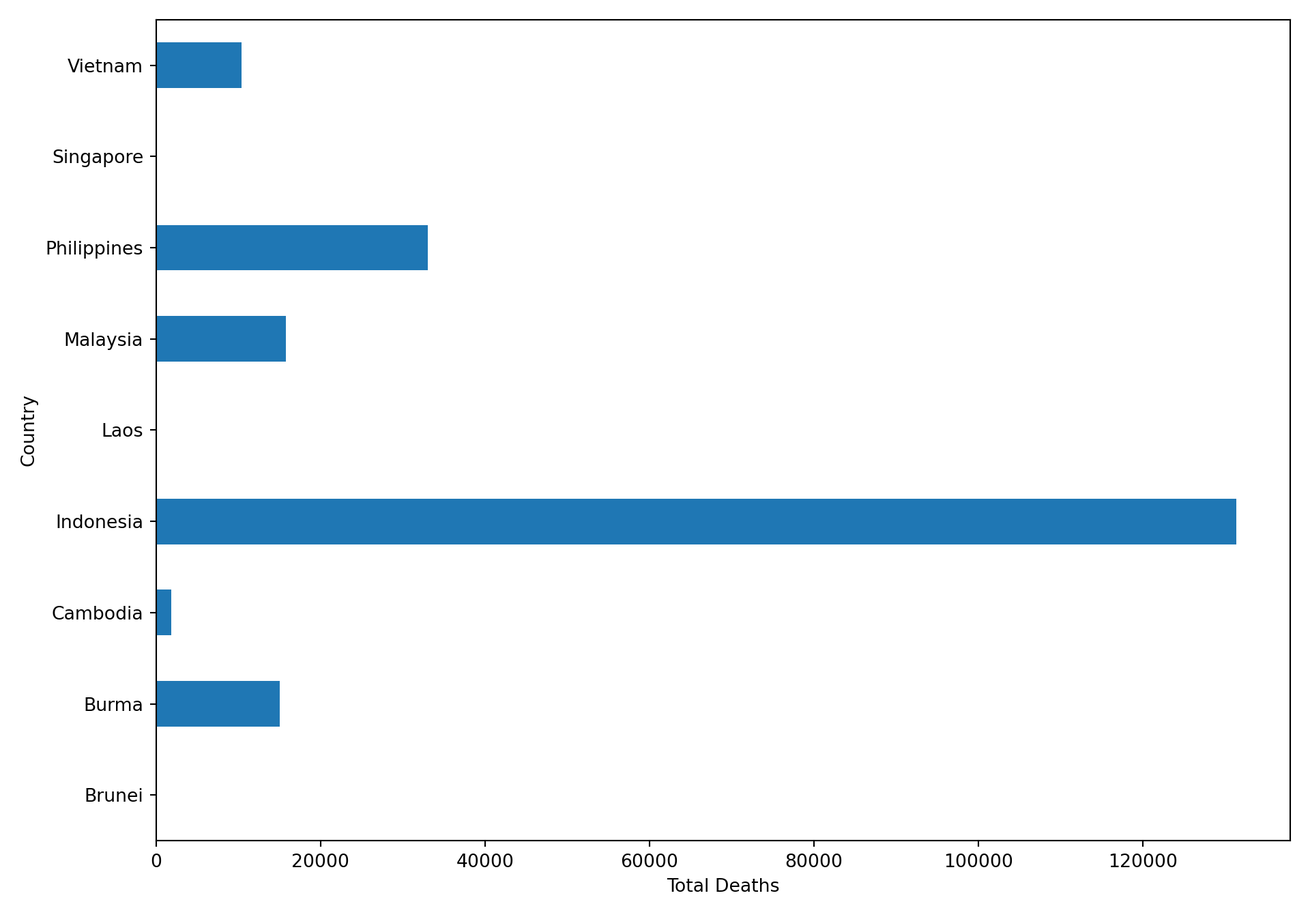
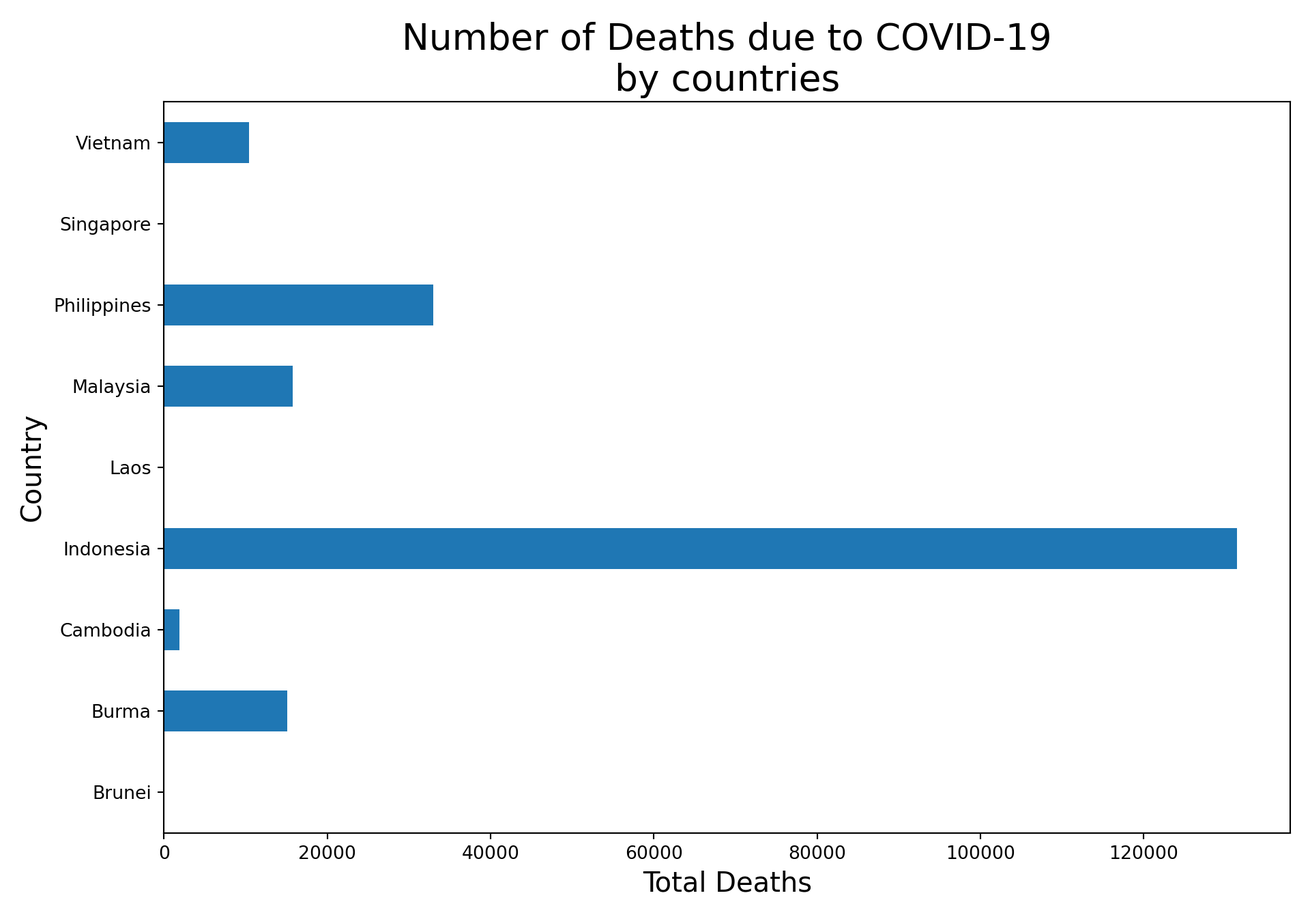
Updated COVID exploration of Daily Cases
- Used .diff() and some other logical operators to plot daily cases of COVID for ASEAN countries.

- Added and Changed Labels and Label Sizes using ax = plot ; ax.set_nlabel...

- Still need help to suppress some outputs generated by matplotlib, especially the text warnings while calling labels.

diff --git a/docs/using-pandas-to-explore-covid-19-data.html b/docs/using-pandas-to-explore-covid-19-data.html
@@ -251,28 +251,40 @@ Hint: Maybe make the barchart descending!</p></li>
 <span id="cb85-3"><a href="using-pandas-to-explore-covid-19-data.html#cb85-3" aria-hidden="true" tabindex="-1"></a>asean_df_latest.set_index(<span class="st">'Country'</span>, inplace <span class="op">=</span> <span class="va">True</span>)</span>
 <span id="cb85-4"><a href="using-pandas-to-explore-covid-19-data.html#cb85-4" aria-hidden="true" tabindex="-1"></a></span>
 <span id="cb85-5"><a href="using-pandas-to-explore-covid-19-data.html#cb85-5" aria-hidden="true" tabindex="-1"></a></span>
-<span id="cb85-6"><a href="using-pandas-to-explore-covid-19-data.html#cb85-6" aria-hidden="true" tabindex="-1"></a>asean_df_latest[<span class="st">'Deaths'</span>].plot(kind <span class="op">=</span> <span class="st">'barh'</span>).set_xlabel(<span class="st">'Total Deaths'</span>)</span></code></pre></div>
+<span id="cb85-6"><a href="using-pandas-to-explore-covid-19-data.html#cb85-6" aria-hidden="true" tabindex="-1"></a>ax <span class="op">=</span> asean_df_latest[<span class="st">'Deaths'</span>].plot(kind <span class="op">=</span> <span class="st">'barh'</span>)</span>
+<span id="cb85-7"><a href="using-pandas-to-explore-covid-19-data.html#cb85-7" aria-hidden="true" tabindex="-1"></a></span>
+<span id="cb85-8"><a href="using-pandas-to-explore-covid-19-data.html#cb85-8" aria-hidden="true" tabindex="-1"></a>ax.set_xlabel(<span class="st">'Total Deaths'</span>, fontsize <span class="op">=</span> <span class="dv">15</span>)</span></code></pre></div>
 <pre><code>#&gt; Text(0.5, 0, 'Total Deaths')</code></pre>
-<div class="sourceCode" id="cb87"><pre class="sourceCode python"><code class="sourceCode python"><span id="cb87-1"><a href="using-pandas-to-explore-covid-19-data.html#cb87-1" aria-hidden="true" tabindex="-1"></a>plt.tight_layout()</span>
-<span id="cb87-2"><a href="using-pandas-to-explore-covid-19-data.html#cb87-2" aria-hidden="true" tabindex="-1"></a>plt.show()</span></code></pre></div>
+<div class="sourceCode" id="cb87"><pre class="sourceCode python"><code class="sourceCode python"><span id="cb87-1"><a href="using-pandas-to-explore-covid-19-data.html#cb87-1" aria-hidden="true" tabindex="-1"></a>ax.set_ylabel(<span class="st">'Country'</span>, fontsize <span class="op">=</span> <span class="dv">15</span>)</span></code></pre></div>
+<pre><code>#&gt; Text(0, 0.5, 'Country')</code></pre>
+<div class="sourceCode" id="cb89"><pre class="sourceCode python"><code class="sourceCode python"><span id="cb89-1"><a href="using-pandas-to-explore-covid-19-data.html#cb89-1" aria-hidden="true" tabindex="-1"></a>ax.set_title(<span class="st">'Number of Deaths due to COVID-19</span><span class="ch">\n</span><span class="st">by countries'</span>, fontsize <span class="op">=</span> <span class="dv">20</span>)</span></code></pre></div>
+<pre><code>#&gt; Text(0.5, 1.0, 'Number of Deaths due to COVID-19\nby countries')</code></pre>
+<div class="sourceCode" id="cb91"><pre class="sourceCode python"><code class="sourceCode python"><span id="cb91-1"><a href="using-pandas-to-explore-covid-19-data.html#cb91-1" aria-hidden="true" tabindex="-1"></a>plt.tight_layout()</span>
+<span id="cb91-2"><a href="using-pandas-to-explore-covid-19-data.html#cb91-2" aria-hidden="true" tabindex="-1"></a>plt.show()</span></code></pre></div>
 <div class="inline-figure"><img src="workshops.tfi.visualisation_files/figure-html/unnamed-chunk-7-1.png" width="85%" style="display: block; margin: auto;"></div>
 </div>
 <div id="solution-better-way" class="section level4 unnumbered">
 <h4>Solution Better Way<a class="anchor" aria-label="anchor" href="#solution-better-way"><i class="fas fa-link"></i></a>
 </h4>
 <p>As you can tell, it is not really clean. A better way to present the other plot would be to sort the countries in descending order of deaths!</p>
-<div class="sourceCode" id="cb88"><pre class="sourceCode python"><code class="sourceCode python"><span id="cb88-1"><a href="using-pandas-to-explore-covid-19-data.html#cb88-1" aria-hidden="true" tabindex="-1"></a>plt.cla()</span>
-<span id="cb88-2"><a href="using-pandas-to-explore-covid-19-data.html#cb88-2" aria-hidden="true" tabindex="-1"></a>plt.subplots(figsize <span class="op">=</span> (<span class="dv">10</span>,<span class="dv">7</span>))</span></code></pre></div>
+<div class="sourceCode" id="cb92"><pre class="sourceCode python"><code class="sourceCode python"><span id="cb92-1"><a href="using-pandas-to-explore-covid-19-data.html#cb92-1" aria-hidden="true" tabindex="-1"></a>plt.cla()</span>
+<span id="cb92-2"><a href="using-pandas-to-explore-covid-19-data.html#cb92-2" aria-hidden="true" tabindex="-1"></a>plt.subplots(figsize <span class="op">=</span> (<span class="dv">10</span>,<span class="dv">7</span>))</span></code></pre></div>
 <pre><code>#&gt; (&lt;Figure size 1000x700 with 1 Axes&gt;, &lt;AxesSubplot:&gt;)</code></pre>
-<div class="sourceCode" id="cb90"><pre class="sourceCode python"><code class="sourceCode python"><span id="cb90-1"><a href="using-pandas-to-explore-covid-19-data.html#cb90-1" aria-hidden="true" tabindex="-1"></a>latest_date <span class="op">=</span> <span class="bu">max</span>(asean_df[<span class="st">'Date'</span>])</span>
-<span id="cb90-2"><a href="using-pandas-to-explore-covid-19-data.html#cb90-2" aria-hidden="true" tabindex="-1"></a>asean_df_latest <span class="op">=</span> asean_df[asean_df[<span class="st">'Date'</span>] <span class="op">==</span> latest_date]</span>
-<span id="cb90-3"><a href="using-pandas-to-explore-covid-19-data.html#cb90-3" aria-hidden="true" tabindex="-1"></a>asean_df_latest.set_index(<span class="st">'Country'</span>, inplace <span class="op">=</span> <span class="va">True</span>)</span>
-<span id="cb90-4"><a href="using-pandas-to-explore-covid-19-data.html#cb90-4" aria-hidden="true" tabindex="-1"></a>asean_df_latest <span class="op">=</span> asean_df_latest.sort_values(by <span class="op">=</span> <span class="st">'Deaths'</span>, ascending<span class="op">=</span><span class="va">True</span>)</span>
-<span id="cb90-5"><a href="using-pandas-to-explore-covid-19-data.html#cb90-5" aria-hidden="true" tabindex="-1"></a></span>
-<span id="cb90-6"><a href="using-pandas-to-explore-covid-19-data.html#cb90-6" aria-hidden="true" tabindex="-1"></a>asean_df_latest[<span class="st">'Deaths'</span>].plot(kind <span class="op">=</span> <span class="st">'barh'</span>).set_xlabel(<span class="st">'Total Deaths'</span>)</span></code></pre></div>
+<div class="sourceCode" id="cb94"><pre class="sourceCode python"><code class="sourceCode python"><span id="cb94-1"><a href="using-pandas-to-explore-covid-19-data.html#cb94-1" aria-hidden="true" tabindex="-1"></a>latest_date <span class="op">=</span> <span class="bu">max</span>(asean_df[<span class="st">'Date'</span>])</span>
+<span id="cb94-2"><a href="using-pandas-to-explore-covid-19-data.html#cb94-2" aria-hidden="true" tabindex="-1"></a>asean_df_latest <span class="op">=</span> asean_df[asean_df[<span class="st">'Date'</span>] <span class="op">==</span> latest_date]</span>
+<span id="cb94-3"><a href="using-pandas-to-explore-covid-19-data.html#cb94-3" aria-hidden="true" tabindex="-1"></a>asean_df_latest.set_index(<span class="st">'Country'</span>, inplace <span class="op">=</span> <span class="va">True</span>)</span>
+<span id="cb94-4"><a href="using-pandas-to-explore-covid-19-data.html#cb94-4" aria-hidden="true" tabindex="-1"></a>asean_df_latest <span class="op">=</span> asean_df_latest.sort_values(by <span class="op">=</span> <span class="st">'Deaths'</span>, ascending<span class="op">=</span><span class="va">True</span>)</span>
+<span id="cb94-5"><a href="using-pandas-to-explore-covid-19-data.html#cb94-5" aria-hidden="true" tabindex="-1"></a></span>
+<span id="cb94-6"><a href="using-pandas-to-explore-covid-19-data.html#cb94-6" aria-hidden="true" tabindex="-1"></a>ax <span class="op">=</span> asean_df_latest[<span class="st">'Deaths'</span>].plot(kind <span class="op">=</span> <span class="st">'barh'</span>)</span>
+<span id="cb94-7"><a href="using-pandas-to-explore-covid-19-data.html#cb94-7" aria-hidden="true" tabindex="-1"></a></span>
+<span id="cb94-8"><a href="using-pandas-to-explore-covid-19-data.html#cb94-8" aria-hidden="true" tabindex="-1"></a>ax.set_xlabel(<span class="st">'Total Deaths'</span>, fontsize <span class="op">=</span> <span class="dv">15</span>)</span></code></pre></div>
 <pre><code>#&gt; Text(0.5, 0, 'Total Deaths')</code></pre>
-<div class="sourceCode" id="cb92"><pre class="sourceCode python"><code class="sourceCode python"><span id="cb92-1"><a href="using-pandas-to-explore-covid-19-data.html#cb92-1" aria-hidden="true" tabindex="-1"></a>plt.tight_layout()</span>
-<span id="cb92-2"><a href="using-pandas-to-explore-covid-19-data.html#cb92-2" aria-hidden="true" tabindex="-1"></a>plt.show()</span></code></pre></div>
+<div class="sourceCode" id="cb96"><pre class="sourceCode python"><code class="sourceCode python"><span id="cb96-1"><a href="using-pandas-to-explore-covid-19-data.html#cb96-1" aria-hidden="true" tabindex="-1"></a>ax.set_ylabel(<span class="st">'Country'</span>, fontsize <span class="op">=</span> <span class="dv">15</span>)</span></code></pre></div>
+<pre><code>#&gt; Text(0, 0.5, 'Country')</code></pre>
+<div class="sourceCode" id="cb98"><pre class="sourceCode python"><code class="sourceCode python"><span id="cb98-1"><a href="using-pandas-to-explore-covid-19-data.html#cb98-1" aria-hidden="true" tabindex="-1"></a>ax.set_title(<span class="st">'Number of Deaths due to COVID-19</span><span class="ch">\n</span><span class="st">sorted by descending order by countries'</span>, fontsize <span class="op">=</span> <span class="dv">20</span>)</span></code></pre></div>
+<pre><code>#&gt; Text(0.5, 1.0, 'Number of Deaths due to COVID-19\nsorted by descending order by countries')</code></pre>
+<div class="sourceCode" id="cb100"><pre class="sourceCode python"><code class="sourceCode python"><span id="cb100-1"><a href="using-pandas-to-explore-covid-19-data.html#cb100-1" aria-hidden="true" tabindex="-1"></a>plt.tight_layout()</span>
+<span id="cb100-2"><a href="using-pandas-to-explore-covid-19-data.html#cb100-2" aria-hidden="true" tabindex="-1"></a>plt.show()</span></code></pre></div>
 <div class="inline-figure"><img src="workshops.tfi.visualisation_files/figure-html/unnamed-chunk-7-3.png" width="85%" style="display: block; margin: auto;"></div>
 </div>
 </div>
@@ -300,14 +312,14 @@ Hint: Maybe make the barchart descending!</p></li>
 <div id="solution-4" class="section level4 unnumbered">
 <h4>Solution<a class="anchor" aria-label="anchor" href="#solution-4"><i class="fas fa-link"></i></a>
 </h4>
-<div class="sourceCode" id="cb93"><pre class="sourceCode python"><code class="sourceCode python"><span id="cb93-1"><a href="using-pandas-to-explore-covid-19-data.html#cb93-1" aria-hidden="true" tabindex="-1"></a><span class="co"># asean_df is the df of choice</span></span>
-<span id="cb93-2"><a href="using-pandas-to-explore-covid-19-data.html#cb93-2" aria-hidden="true" tabindex="-1"></a></span>
-<span id="cb93-3"><a href="using-pandas-to-explore-covid-19-data.html#cb93-3" aria-hidden="true" tabindex="-1"></a>plt.cla()</span>
-<span id="cb93-4"><a href="using-pandas-to-explore-covid-19-data.html#cb93-4" aria-hidden="true" tabindex="-1"></a>fig, ax <span class="op">=</span> plt.subplots(figsize <span class="op">=</span> (<span class="dv">10</span>,<span class="dv">5</span>))</span>
-<span id="cb93-5"><a href="using-pandas-to-explore-covid-19-data.html#cb93-5" aria-hidden="true" tabindex="-1"></a></span>
-<span id="cb93-6"><a href="using-pandas-to-explore-covid-19-data.html#cb93-6" aria-hidden="true" tabindex="-1"></a><span class="co">#Iterate through our countries so we can plot automatically plot them!</span></span>
-<span id="cb93-7"><a href="using-pandas-to-explore-covid-19-data.html#cb93-7" aria-hidden="true" tabindex="-1"></a><span class="cf">for</span> country <span class="kw">in</span> ASEAN_countries_list:</span>
-<span id="cb93-8"><a href="using-pandas-to-explore-covid-19-data.html#cb93-8" aria-hidden="true" tabindex="-1"></a>    asean_df[asean_df[<span class="st">'Country'</span>] <span class="op">==</span> country].plot(<span class="st">'Date'</span>,<span class="st">'Confirmed'</span>,ax<span class="op">=</span>ax, label <span class="op">=</span> country)</span></code></pre></div>
+<div class="sourceCode" id="cb101"><pre class="sourceCode python"><code class="sourceCode python"><span id="cb101-1"><a href="using-pandas-to-explore-covid-19-data.html#cb101-1" aria-hidden="true" tabindex="-1"></a><span class="co"># asean_df is the df of choice</span></span>
+<span id="cb101-2"><a href="using-pandas-to-explore-covid-19-data.html#cb101-2" aria-hidden="true" tabindex="-1"></a></span>
+<span id="cb101-3"><a href="using-pandas-to-explore-covid-19-data.html#cb101-3" aria-hidden="true" tabindex="-1"></a>plt.cla()</span>
+<span id="cb101-4"><a href="using-pandas-to-explore-covid-19-data.html#cb101-4" aria-hidden="true" tabindex="-1"></a>fig, ax <span class="op">=</span> plt.subplots(figsize <span class="op">=</span> (<span class="dv">10</span>,<span class="dv">5</span>))</span>
+<span id="cb101-5"><a href="using-pandas-to-explore-covid-19-data.html#cb101-5" aria-hidden="true" tabindex="-1"></a></span>
+<span id="cb101-6"><a href="using-pandas-to-explore-covid-19-data.html#cb101-6" aria-hidden="true" tabindex="-1"></a><span class="co">#Iterate through our countries so we can plot automatically plot them!</span></span>
+<span id="cb101-7"><a href="using-pandas-to-explore-covid-19-data.html#cb101-7" aria-hidden="true" tabindex="-1"></a><span class="cf">for</span> country <span class="kw">in</span> ASEAN_countries_list:</span>
+<span id="cb101-8"><a href="using-pandas-to-explore-covid-19-data.html#cb101-8" aria-hidden="true" tabindex="-1"></a>    asean_df[asean_df[<span class="st">'Country'</span>] <span class="op">==</span> country].plot(<span class="st">'Date'</span>,<span class="st">'Confirmed'</span>,ax<span class="op">=</span>ax, label <span class="op">=</span> country)</span></code></pre></div>
 <pre><code>#&gt; &lt;AxesSubplot:xlabel='Date'&gt;
 #&gt; &lt;AxesSubplot:xlabel='Date'&gt;
 #&gt; &lt;AxesSubplot:xlabel='Date'&gt;
@@ -317,13 +329,16 @@ Hint: Maybe make the barchart descending!</p></li>
 #&gt; &lt;AxesSubplot:xlabel='Date'&gt;
 #&gt; &lt;AxesSubplot:xlabel='Date'&gt;
 #&gt; &lt;AxesSubplot:xlabel='Date'&gt;</code></pre>
-<div class="sourceCode" id="cb95"><pre class="sourceCode python"><code class="sourceCode python"><span id="cb95-1"><a href="using-pandas-to-explore-covid-19-data.html#cb95-1" aria-hidden="true" tabindex="-1"></a>plt.legend()</span></code></pre></div>
-<pre><code>#&gt; &lt;matplotlib.legend.Legend object at 0x000000006233D580&gt;</code></pre>
-<div class="sourceCode" id="cb97"><pre class="sourceCode python"><code class="sourceCode python"><span id="cb97-1"><a href="using-pandas-to-explore-covid-19-data.html#cb97-1" aria-hidden="true" tabindex="-1"></a>plt.xlabel(<span class="st">'Number of Confirmed Cases'</span>, fontsize <span class="op">=</span> <span class="dv">15</span>)</span></code></pre></div>
-<pre><code>#&gt; Text(0.5, 0, 'Number of Confirmed Cases')</code></pre>
-<div class="sourceCode" id="cb99"><pre class="sourceCode python"><code class="sourceCode python"><span id="cb99-1"><a href="using-pandas-to-explore-covid-19-data.html#cb99-1" aria-hidden="true" tabindex="-1"></a>plt.title(<span class="st">'Number of Confirmed Cases over time in ASEAN countries'</span>, fontsize <span class="op">=</span> <span class="dv">20</span>)</span></code></pre></div>
+<div class="sourceCode" id="cb103"><pre class="sourceCode python"><code class="sourceCode python"><span id="cb103-1"><a href="using-pandas-to-explore-covid-19-data.html#cb103-1" aria-hidden="true" tabindex="-1"></a>plt.legend()</span></code></pre></div>
+<pre><code>#&gt; &lt;matplotlib.legend.Legend object at 0x0000000061D23C70&gt;</code></pre>
+<div class="sourceCode" id="cb105"><pre class="sourceCode python"><code class="sourceCode python"><span id="cb105-1"><a href="using-pandas-to-explore-covid-19-data.html#cb105-1" aria-hidden="true" tabindex="-1"></a>plt.ylabel(<span class="st">'Number of Confirmed Cases'</span>, fontsize <span class="op">=</span> <span class="dv">15</span>)</span></code></pre></div>
+<pre><code>#&gt; Text(0, 0.5, 'Number of Confirmed Cases')</code></pre>
+<div class="sourceCode" id="cb107"><pre class="sourceCode python"><code class="sourceCode python"><span id="cb107-1"><a href="using-pandas-to-explore-covid-19-data.html#cb107-1" aria-hidden="true" tabindex="-1"></a>plt.xlabel(<span class="st">'Date'</span>, fontsize <span class="op">=</span> <span class="dv">15</span>)</span></code></pre></div>
+<pre><code>#&gt; Text(0.5, 0, 'Date')</code></pre>
+<div class="sourceCode" id="cb109"><pre class="sourceCode python"><code class="sourceCode python"><span id="cb109-1"><a href="using-pandas-to-explore-covid-19-data.html#cb109-1" aria-hidden="true" tabindex="-1"></a>plt.title(<span class="st">'Number of Confirmed Cases over time in ASEAN countries'</span>, fontsize <span class="op">=</span> <span class="dv">20</span>)</span></code></pre></div>
 <pre><code>#&gt; Text(0.5, 1.0, 'Number of Confirmed Cases over time in ASEAN countries')</code></pre>
-<div class="sourceCode" id="cb101"><pre class="sourceCode python"><code class="sourceCode python"><span id="cb101-1"><a href="using-pandas-to-explore-covid-19-data.html#cb101-1" aria-hidden="true" tabindex="-1"></a>plt.show()</span></code></pre></div>
+<div class="sourceCode" id="cb111"><pre class="sourceCode python"><code class="sourceCode python"><span id="cb111-1"><a href="using-pandas-to-explore-covid-19-data.html#cb111-1" aria-hidden="true" tabindex="-1"></a>plt.tight_layout()</span>
+<span id="cb111-2"><a href="using-pandas-to-explore-covid-19-data.html#cb111-2" aria-hidden="true" tabindex="-1"></a>plt.show()</span></code></pre></div>
 <div class="inline-figure"><img src="workshops.tfi.visualisation_files/figure-html/unnamed-chunk-7-5.png" width="85%" style="display: block; margin: auto;"></div>
 </div>
 </div>
@@ -343,7 +358,8 @@ Hint: Maybe make the barchart descending!</p></li>
 <p><br></p>
 <p>Using the dataframe containing <strong>ALL DATES</strong> of ASEAN countries only:</p>
 <ol style="list-style-type: decimal">
-<li><p>Find the daily cases for each country using <code>pd.diff()</code>.</p></li>
+<li><p>Find the daily cases for each country using <code>.diff()</code>.</p></li>
+<li><p>Set all negative values to NaN or 0s.</p></li>
 <li><p>Plot the daily number of confirmed cases against dates.</p></li>
 <li><p>Ensure that each country has their own <code>colour</code>.</p></li>
 <li><p>Enable the legend</p></li>
@@ -352,9 +368,47 @@ Hint: Maybe make the barchart descending!</p></li>
 <div id="solution-5" class="section level4 unnumbered">
 <h4>Solution<a class="anchor" aria-label="anchor" href="#solution-5"><i class="fas fa-link"></i></a>
 </h4>
-<div class="sourceCode" id="cb102"><pre class="sourceCode python"><code class="sourceCode python"><span id="cb102-1"><a href="using-pandas-to-explore-covid-19-data.html#cb102-1" aria-hidden="true" tabindex="-1"></a><span class="co"># asean_df is the df of choice</span></span>
-<span id="cb102-2"><a href="using-pandas-to-explore-covid-19-data.html#cb102-2" aria-hidden="true" tabindex="-1"></a></span>
-<span id="cb102-3"><a href="using-pandas-to-explore-covid-19-data.html#cb102-3" aria-hidden="true" tabindex="-1"></a><span class="co"># I actually don't know....</span></span></code></pre></div>
+<div class="sourceCode" id="cb112"><pre class="sourceCode python"><code class="sourceCode python"><span id="cb112-1"><a href="using-pandas-to-explore-covid-19-data.html#cb112-1" aria-hidden="true" tabindex="-1"></a><span class="im">import</span> numpy <span class="im">as</span> np</span>
+<span id="cb112-2"><a href="using-pandas-to-explore-covid-19-data.html#cb112-2" aria-hidden="true" tabindex="-1"></a></span>
+<span id="cb112-3"><a href="using-pandas-to-explore-covid-19-data.html#cb112-3" aria-hidden="true" tabindex="-1"></a><span class="co"># asean_df is the df of choice</span></span>
+<span id="cb112-4"><a href="using-pandas-to-explore-covid-19-data.html#cb112-4" aria-hidden="true" tabindex="-1"></a></span>
+<span id="cb112-5"><a href="using-pandas-to-explore-covid-19-data.html#cb112-5" aria-hidden="true" tabindex="-1"></a><span class="co"># Make a copy</span></span>
+<span id="cb112-6"><a href="using-pandas-to-explore-covid-19-data.html#cb112-6" aria-hidden="true" tabindex="-1"></a>t_asean <span class="op">=</span> asean_df.copy()</span>
+<span id="cb112-7"><a href="using-pandas-to-explore-covid-19-data.html#cb112-7" aria-hidden="true" tabindex="-1"></a></span>
+<span id="cb112-8"><a href="using-pandas-to-explore-covid-19-data.html#cb112-8" aria-hidden="true" tabindex="-1"></a><span class="co"># Using .diff() to find the difference between rows</span></span>
+<span id="cb112-9"><a href="using-pandas-to-explore-covid-19-data.html#cb112-9" aria-hidden="true" tabindex="-1"></a>t_asean.loc[:, <span class="st">'Daily'</span>] <span class="op">=</span> t_asean[<span class="st">'Confirmed'</span>].diff()</span>
+<span id="cb112-10"><a href="using-pandas-to-explore-covid-19-data.html#cb112-10" aria-hidden="true" tabindex="-1"></a></span>
+<span id="cb112-11"><a href="using-pandas-to-explore-covid-19-data.html#cb112-11" aria-hidden="true" tabindex="-1"></a><span class="co"># Setting Negative Values to 0 or NaN because of Math</span></span>
+<span id="cb112-12"><a href="using-pandas-to-explore-covid-19-data.html#cb112-12" aria-hidden="true" tabindex="-1"></a>t_asean[t_asean[<span class="st">'Daily'</span>] <span class="op">&lt;</span> <span class="dv">0</span>] <span class="op">=</span> np.NaN</span>
+<span id="cb112-13"><a href="using-pandas-to-explore-covid-19-data.html#cb112-13" aria-hidden="true" tabindex="-1"></a></span>
+<span id="cb112-14"><a href="using-pandas-to-explore-covid-19-data.html#cb112-14" aria-hidden="true" tabindex="-1"></a></span>
+<span id="cb112-15"><a href="using-pandas-to-explore-covid-19-data.html#cb112-15" aria-hidden="true" tabindex="-1"></a>plt.cla()</span>
+<span id="cb112-16"><a href="using-pandas-to-explore-covid-19-data.html#cb112-16" aria-hidden="true" tabindex="-1"></a>fig, ax <span class="op">=</span> plt.subplots(figsize <span class="op">=</span> (<span class="dv">10</span>,<span class="dv">5</span>))</span>
+<span id="cb112-17"><a href="using-pandas-to-explore-covid-19-data.html#cb112-17" aria-hidden="true" tabindex="-1"></a></span>
+<span id="cb112-18"><a href="using-pandas-to-explore-covid-19-data.html#cb112-18" aria-hidden="true" tabindex="-1"></a></span>
+<span id="cb112-19"><a href="using-pandas-to-explore-covid-19-data.html#cb112-19" aria-hidden="true" tabindex="-1"></a><span class="co">#Iterate through our countries so we can plot automatically plot them!</span></span>
+<span id="cb112-20"><a href="using-pandas-to-explore-covid-19-data.html#cb112-20" aria-hidden="true" tabindex="-1"></a><span class="cf">for</span> country <span class="kw">in</span> ASEAN_countries_list:</span>
+<span id="cb112-21"><a href="using-pandas-to-explore-covid-19-data.html#cb112-21" aria-hidden="true" tabindex="-1"></a>    t_asean[t_asean[<span class="st">'Country'</span>] <span class="op">==</span> country].plot(<span class="st">'Date'</span>,<span class="st">'Daily'</span>,ax<span class="op">=</span>ax, label <span class="op">=</span> country)</span></code></pre></div>
+<pre><code>#&gt; &lt;AxesSubplot:xlabel='Date'&gt;
+#&gt; &lt;AxesSubplot:xlabel='Date'&gt;
+#&gt; &lt;AxesSubplot:xlabel='Date'&gt;
+#&gt; &lt;AxesSubplot:xlabel='Date'&gt;
+#&gt; &lt;AxesSubplot:xlabel='Date'&gt;
+#&gt; &lt;AxesSubplot:xlabel='Date'&gt;
+#&gt; &lt;AxesSubplot:xlabel='Date'&gt;
+#&gt; &lt;AxesSubplot:xlabel='Date'&gt;
+#&gt; &lt;AxesSubplot:xlabel='Date'&gt;</code></pre>
+<div class="sourceCode" id="cb114"><pre class="sourceCode python"><code class="sourceCode python"><span id="cb114-1"><a href="using-pandas-to-explore-covid-19-data.html#cb114-1" aria-hidden="true" tabindex="-1"></a>plt.legend()</span></code></pre></div>
+<pre><code>#&gt; &lt;matplotlib.legend.Legend object at 0x0000000061CD7490&gt;</code></pre>
+<div class="sourceCode" id="cb116"><pre class="sourceCode python"><code class="sourceCode python"><span id="cb116-1"><a href="using-pandas-to-explore-covid-19-data.html#cb116-1" aria-hidden="true" tabindex="-1"></a>plt.ylabel(<span class="st">'Number of Daily Cases'</span>, fontsize <span class="op">=</span> <span class="dv">15</span>)</span></code></pre></div>
+<pre><code>#&gt; Text(0, 0.5, 'Number of Daily Cases')</code></pre>
+<div class="sourceCode" id="cb118"><pre class="sourceCode python"><code class="sourceCode python"><span id="cb118-1"><a href="using-pandas-to-explore-covid-19-data.html#cb118-1" aria-hidden="true" tabindex="-1"></a>plt.xlabel(<span class="st">'Date'</span>, fontsize <span class="op">=</span> <span class="dv">15</span>)</span></code></pre></div>
+<pre><code>#&gt; Text(0.5, 0, 'Date')</code></pre>
+<div class="sourceCode" id="cb120"><pre class="sourceCode python"><code class="sourceCode python"><span id="cb120-1"><a href="using-pandas-to-explore-covid-19-data.html#cb120-1" aria-hidden="true" tabindex="-1"></a>plt.title(<span class="st">'Number of Daily Cases over time in ASEAN countries'</span>, fontsize <span class="op">=</span> <span class="dv">20</span>)</span></code></pre></div>
+<pre><code>#&gt; Text(0.5, 1.0, 'Number of Daily Cases over time in ASEAN countries')</code></pre>
+<div class="sourceCode" id="cb122"><pre class="sourceCode python"><code class="sourceCode python"><span id="cb122-1"><a href="using-pandas-to-explore-covid-19-data.html#cb122-1" aria-hidden="true" tabindex="-1"></a>plt.tight_layout()</span>
+<span id="cb122-2"><a href="using-pandas-to-explore-covid-19-data.html#cb122-2" aria-hidden="true" tabindex="-1"></a>plt.show()</span></code></pre></div>
+<div class="inline-figure"><img src="workshops.tfi.visualisation_files/figure-html/unnamed-chunk-7-7.png" width="85%" style="display: block; margin: auto;"></div>
 
 </div>
 </div>
@@ -400,7 +454,7 @@ Hint: Maybe make the barchart descending!</p></li>
 <footer class="bg-primary text-light mt-5"><div class="container"><div class="row">
 
   <div class="col-12 col-md-6 mt-3">
-    <p>"<strong>TFI e-Workshop | Using Python To Tell Stories With Data</strong>" was written by SPS Science Communication Team. It was last built on 2021-08-29.</p>
+    <p>"<strong>TFI e-Workshop | Using Python To Tell Stories With Data</strong>" was written by SPS Science Communication Team. It was last built on 2021-08-30.</p>
   </div>
 
   <div class="col-12 col-md-6 mt-3">

diff --git a/docs/using-pandas-to-explore-data.html b/docs/using-pandas-to-explore-data.html
@@ -6,14 +6,14 @@
 <meta name="viewport" content="width=device-width, initial-scale=1, shrink-to-fit=no">
 <title>Chapter 10 Using Pandas to Explore Data | TFI e-Workshop | Using Python To Tell Stories With Data</title>
 <meta name="author" content="SPS Science Communication Team">
-<meta name="description" content="10.1 Barcharts  Example 2 | Barcharts with error bars  Result Nothing here yet.  Code  df.agg function applies various functions to a data set. yerr in df.plot applies error bars to the bar chart....">
+<meta name="description" content="Here we will be using pandas to do some exploratory plots on a dataset containing Gender, Height and, Weight. The dataset we are going to be using is an edited version from...">
 <meta name="generator" content="bookdown 0.23 with bs4_book()">
 <meta property="og:title" content="Chapter 10 Using Pandas to Explore Data | TFI e-Workshop | Using Python To Tell Stories With Data">
 <meta property="og:type" content="book">
-<meta property="og:description" content="10.1 Barcharts  Example 2 | Barcharts with error bars  Result Nothing here yet.  Code  df.agg function applies various functions to a data set. yerr in df.plot applies error bars to the bar chart....">
+<meta property="og:description" content="Here we will be using pandas to do some exploratory plots on a dataset containing Gender, Height and, Weight. The dataset we are going to be using is an edited version from...">
 <meta name="twitter:card" content="summary">
 <meta name="twitter:title" content="Chapter 10 Using Pandas to Explore Data | TFI e-Workshop | Using Python To Tell Stories With Data">
-<meta name="twitter:description" content="10.1 Barcharts  Example 2 | Barcharts with error bars  Result Nothing here yet.  Code  df.agg function applies various functions to a data set. yerr in df.plot applies error bars to the bar chart....">
+<meta name="twitter:description" content="Here we will be using pandas to do some exploratory plots on a dataset containing Gender, Height and, Weight. The dataset we are going to be using is an edited version from...">
 <!-- JS --><script src="https://cdnjs.cloudflare.com/ajax/libs/clipboard.js/2.0.6/clipboard.min.js" integrity="sha256-inc5kl9MA1hkeYUt+EC3BhlIgyp/2jDIyBLS6k3UxPI=" crossorigin="anonymous"></script><script src="https://cdnjs.cloudflare.com/ajax/libs/fuse.js/6.4.6/fuse.js" integrity="sha512-zv6Ywkjyktsohkbp9bb45V6tEMoWhzFzXis+LrMehmJZZSys19Yxf1dopHx7WzIKxr5tK2dVcYmaCk2uqdjF4A==" crossorigin="anonymous"></script><script src="https://kit.fontawesome.com/6ecbd6c532.js" crossorigin="anonymous"></script><script src="libs/header-attrs-2.10/header-attrs.js"></script><script src="libs/jquery-3.6.0/jquery-3.6.0.min.js"></script><meta name="viewport" content="width=device-width, initial-scale=1, shrink-to-fit=no">
 <link href="libs/bootstrap-4.6.0/bootstrap.min.css" rel="stylesheet">
 <script src="libs/bootstrap-4.6.0/bootstrap.bundle.min.js"></script><script src="libs/bs3compat-0.2.5.1/tabs.js"></script><script src="libs/bs3compat-0.2.5.1/bs3compat.js"></script><link href="libs/bs4_book-1.0.0/bs4_book.css" rel="stylesheet">
@@ -68,6 +68,7 @@
 <h1>
 <span class="header-section-number">10</span> Using Pandas to Explore Data<a class="anchor" aria-label="anchor" href="#using-pandas-to-explore-data"><i class="fas fa-link"></i></a>
 </h1>
+<p>Here we will be using pandas to do some exploratory plots on a dataset containing <code>Gender</code>, <code>Height</code> and, <code>Weight</code>. The dataset we are going to be using is an edited version from (Kaggle)[<a href="https://www.kaggle.com/mustafaali96/weight-height/version/1" class="uri">https://www.kaggle.com/mustafaali96/weight-height/version/1</a>] where we trimmed to 200 total rows and converted everything to the metric system.</p>
 <div id="barcharts" class="section level2" number="10.1">
 <h2>
 <span class="header-section-number">10.1</span> Barcharts<a class="anchor" aria-label="anchor" href="#barcharts"><i class="fas fa-link"></i></a>
@@ -360,7 +361,7 @@
 <footer class="bg-primary text-light mt-5"><div class="container"><div class="row">
 
   <div class="col-12 col-md-6 mt-3">
-    <p>"<strong>TFI e-Workshop | Using Python To Tell Stories With Data</strong>" was written by SPS Science Communication Team. It was last built on 2021-08-29.</p>
+    <p>"<strong>TFI e-Workshop | Using Python To Tell Stories With Data</strong>" was written by SPS Science Communication Team. It was last built on 2021-08-30.</p>
   </div>
 
   <div class="col-12 col-md-6 mt-3">

diff --git a/docs/hello.html b/docs/hello.html
@@ -247,7 +247,7 @@ Figure 2.1: Examples of Jupyter Notebooks (from <a href="https://jupyter.org">ju
 <footer class="bg-primary text-light mt-5"><div class="container"><div class="row">
 
   <div class="col-12 col-md-6 mt-3">
-    <p>"<strong>TFI e-Workshop | Using Python To Tell Stories With Data</strong>" was written by SPS Science Communication Team. It was last built on 2021-08-29.</p>
+    <p>"<strong>TFI e-Workshop | Using Python To Tell Stories With Data</strong>" was written by SPS Science Communication Team. It was last built on 2021-08-30.</p>
   </div>
 
   <div class="col-12 col-md-6 mt-3">

diff --git a/docs/404.html b/docs/404.html
@@ -83,7 +83,7 @@ the table of contents to find the page you are looking for.</p>
 <footer class="bg-primary text-light mt-5"><div class="container"><div class="row">
 
   <div class="col-12 col-md-6 mt-3">
-    <p>"<strong>TFI e-Workshop | Using Python To Tell Stories With Data</strong>" was written by SPS Science Communication Team. It was last built on 2021-08-29.</p>
+    <p>"<strong>TFI e-Workshop | Using Python To Tell Stories With Data</strong>" was written by SPS Science Communication Team. It was last built on 2021-08-30.</p>
   </div>
 
   <div class="col-12 col-md-6 mt-3">

diff --git a/docs/index.html b/docs/index.html
@@ -339,7 +339,7 @@ In particular, we will focus on code related to:
 <footer class="bg-primary text-light mt-5"><div class="container"><div class="row">
 
   <div class="col-12 col-md-6 mt-3">
-    <p>"<strong>TFI e-Workshop | Using Python To Tell Stories With Data</strong>" was written by SPS Science Communication Team. It was last built on 2021-08-29.</p>
+    <p>"<strong>TFI e-Workshop | Using Python To Tell Stories With Data</strong>" was written by SPS Science Communication Team. It was last built on 2021-08-30.</p>
   </div>
 
   <div class="col-12 col-md-6 mt-3">

diff --git a/docs/basic-plotting-with-pandas.html b/docs/basic-plotting-with-pandas.html
@@ -152,7 +152,7 @@
 <footer class="bg-primary text-light mt-5"><div class="container"><div class="row">
 
   <div class="col-12 col-md-6 mt-3">
-    <p>"<strong>TFI e-Workshop | Using Python To Tell Stories With Data</strong>" was written by SPS Science Communication Team. It was last built on 2021-08-29.</p>
+    <p>"<strong>TFI e-Workshop | Using Python To Tell Stories With Data</strong>" was written by SPS Science Communication Team. It was last built on 2021-08-30.</p>
   </div>
 
   <div class="col-12 col-md-6 mt-3">

diff --git a/docs/core-visualisation-principles.html b/docs/core-visualisation-principles.html
@@ -102,7 +102,7 @@
 <footer class="bg-primary text-light mt-5"><div class="container"><div class="row">
 
   <div class="col-12 col-md-6 mt-3">
-    <p>"<strong>TFI e-Workshop | Using Python To Tell Stories With Data</strong>" was written by SPS Science Communication Team. It was last built on 2021-08-29.</p>
+    <p>"<strong>TFI e-Workshop | Using Python To Tell Stories With Data</strong>" was written by SPS Science Communication Team. It was last built on 2021-08-30.</p>
   </div>
 
   <div class="col-12 col-md-6 mt-3">

diff --git a/docs/instructions-1.html b/docs/instructions-1.html
@@ -109,7 +109,7 @@
 <footer class="bg-primary text-light mt-5"><div class="container"><div class="row">
 
   <div class="col-12 col-md-6 mt-3">
-    <p>"<strong>TFI e-Workshop | Using Python To Tell Stories With Data</strong>" was written by SPS Science Communication Team. It was last built on 2021-08-29.</p>
+    <p>"<strong>TFI e-Workshop | Using Python To Tell Stories With Data</strong>" was written by SPS Science Communication Team. It was last built on 2021-08-30.</p>
   </div>
 
   <div class="col-12 col-md-6 mt-3">

diff --git a/docs/instructions.html b/docs/instructions.html
@@ -109,7 +109,7 @@
 <footer class="bg-primary text-light mt-5"><div class="container"><div class="row">
 
   <div class="col-12 col-md-6 mt-3">
-    <p>"<strong>TFI e-Workshop | Using Python To Tell Stories With Data</strong>" was written by SPS Science Communication Team. It was last built on 2021-08-29.</p>
+    <p>"<strong>TFI e-Workshop | Using Python To Tell Stories With Data</strong>" was written by SPS Science Communication Team. It was last built on 2021-08-30.</p>
   </div>
 
   <div class="col-12 col-md-6 mt-3">

diff --git a/docs/some-pandas-basics.html b/docs/some-pandas-basics.html
@@ -220,7 +220,7 @@
 <footer class="bg-primary text-light mt-5"><div class="container"><div class="row">
 
   <div class="col-12 col-md-6 mt-3">
-    <p>"<strong>TFI e-Workshop | Using Python To Tell Stories With Data</strong>" was written by SPS Science Communication Team. It was last built on 2021-08-29.</p>
+    <p>"<strong>TFI e-Workshop | Using Python To Tell Stories With Data</strong>" was written by SPS Science Communication Team. It was last built on 2021-08-30.</p>
   </div>
 
   <div class="col-12 col-md-6 mt-3">

diff --git a/docs/some-python-basics.html b/docs/some-python-basics.html
@@ -220,7 +220,7 @@
 <footer class="bg-primary text-light mt-5"><div class="container"><div class="row">
 
   <div class="col-12 col-md-6 mt-3">
-    <p>"<strong>TFI e-Workshop | Using Python To Tell Stories With Data</strong>" was written by SPS Science Communication Team. It was last built on 2021-08-29.</p>
+    <p>"<strong>TFI e-Workshop | Using Python To Tell Stories With Data</strong>" was written by SPS Science Communication Team. It was last built on 2021-08-30.</p>
   </div>
 
   <div class="col-12 col-md-6 mt-3">

diff --git a/docs/python-basics-exercises.html b/docs/python-basics-exercises.html
@@ -91,7 +91,7 @@
 <footer class="bg-primary text-light mt-5"><div class="container"><div class="row">
 
   <div class="col-12 col-md-6 mt-3">
-    <p>"<strong>TFI e-Workshop | Using Python To Tell Stories With Data</strong>" was written by SPS Science Communication Team. It was last built on 2021-08-29.</p>
+    <p>"<strong>TFI e-Workshop | Using Python To Tell Stories With Data</strong>" was written by SPS Science Communication Team. It was last built on 2021-08-30.</p>
   </div>
 
   <div class="col-12 col-md-6 mt-3">
